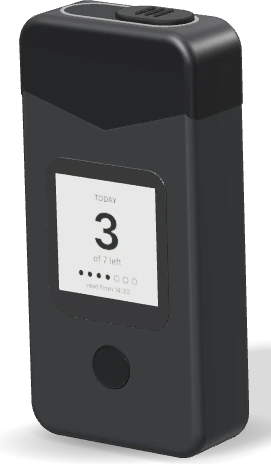
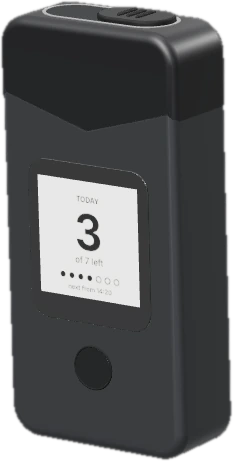
Relinquit: every section fits one screen, static app section with clickable list and autoplay walkthrough, shadow-free colourways, taller product renders
Claude-Session: https://claude.ai/code/session_016HT8M4ZHhrVr9NAe4Ea33j

diff --git a/js/relinquit.js b/js/relinquit.js
@@ -74,8 +74,7 @@
           <div><b class="tl">51.7%</b><span>say they want to quit</span><b class="am">19.9%</b><span>plan to try in the next 3 months</span></div></div>
         <div class="rq-cut"><h3>Does cutting down work?</h3><small>Not smoking 6 months later — 697 smokers, randomised</small>
           <div class="br"><i class="b1"></i><b>22.0%</b><span>stopped outright</span></div><div class="br"><i class="b2"></i><b>15.5%</b><span>cut down first</span></div>
-          <p class="so">${ico("arrow", 22, "#2F7F86")}So every plan ends on a quit date.</p></div>
-        <p class="rq-cr"><i>${ico("clock", 26, "#5FE0D6")}</i><span><b>Cravings last a few minutes.</b>Design for the minutes in between.</span></p></div></div>
+          <p class="so">${ico("arrow", 22, "#2F7F86")}So every plan ends on a quit date.</p></div></div></div>
       <p class="rq-src">Sources: ONS Adult smoking habits in the UK 2025 (2023 point: ONS 2023 bulletin); WHO tobacco fact sheet 2025; ONS average pack price Jan 2025; Lindson-Hawley et al., Annals of Internal Medicine 2016; NHS Better Health.</p>
     </div></div></section>
 
@@ -117,12 +116,12 @@
           <div class="rq-mb"><div class="rq-ms rv"><img src="images/relinquit/states.webp" alt="Left: closed and resting. Right: slid back with one cigarette ready"><p><span>Closed · resting</span><span>Slid back · one ready</span></p></div>
             <div class="rq-me rv"><h3>Always-on e-ink</h3><div class="es">${EINK.map((e, i) => `<div class="${i === 0 ? "on" : ""}" data-i="${i}">${eink(e)}<span>${e[0]}</span></div>`).join("")}</div><p>Shows today’s count even with a flat phone. The ring: teal = ready, amber = resting.</p></div></div></div></div></section>
 
-    <section data-sec="The app" class="rq-pin rq-app" data-pin="app"><div class="rq-stage"><div class="rq-in">
+    <section data-sec="The app" class="rq-app"><div class="rq-in">
       <header class="rq-sh"><small>05 · App</small><h2>Nine screens, one calm companion</h2></header>
-      <div class="rq-ag"><ol class="rq-al">${GROUPS.map((g, gi) => `<li class="g"><small>${g}</small><ul>${SCREENS.map((s, k) => s[3] === gi ? `<li data-k="${k}"><b>${esc(s[1])}</b></li>` : "").join("")}</ul></li>`).join("")}</ol>
+      <div class="rq-ag"><nav class="rq-al" aria-label="App screens">${GROUPS.map((g, gi) => `<div class="g"><small>${g}</small>${SCREENS.map((s, k) => s[3] === gi ? `<button type="button" data-k="${k}">${esc(s[1])}</button>` : "").join("")}</div>`).join("")}</nav>
         <div class="rq-ap">${SCREENS.map((s, k) => `<div class="ps" data-k="${k}">${phone(k, 0.9)}</div>`).join("")}</div>
-        <div class="rq-ac"><small class="ag">Set up</small><h3 class="at">Welcome</h3><p class="ad">Step down or quit now</p><button type="button" class="rq-walk">Walk me through it</button><div class="dots">${SCREENS.map((s, k) => `<i data-k="${k}"></i>`).join("")}</div></div></div>
-    </div></div></section>
+        <div class="rq-ac"><small class="ag">Set up</small><h3 class="at">Welcome</h3><p class="ad">Step down or quit now</p><div class="dots">${SCREENS.map((s, k) => `<button type="button" data-k="${k}" aria-label="${esc(s[1])}"></button>`).join("")}</div><button type="button" class="rq-walk">Walk me through it</button></div></div>
+    </div></section>
 
     <section data-sec="" class="rq-end"><div class="ei"><p class="rq-tag w">${mark("#fff", 30)}<span>relinquit</span></p>
       <h2>Cut down with a plan. <span>Quit for good.</span></h2>
@@ -145,7 +144,7 @@
     // scale the big phone to the stage
     const fitPhones = () => {
       const h = vh();
-      const big = Math.max(0.45, Math.min(1.1, (h - 170 - 170) / 868));
+      const big = Math.max(0.42, Math.min(1.1, (h - 400) / 868));
       $$(".rq-ap .rq-dev").forEach((d) => d.style.setProperty("--s", big.toFixed(3)));
       const e = $(".ph2"); if (e) e.style.setProperty("--s", Math.max(0.4, Math.min(0.7, (h * 0.62) / 868)).toFixed(3));
     };
@@ -186,7 +185,6 @@
         $(".b1", el).style.width = `${(22 * 11 * b).toFixed(1)}px`; $(".b2", el).style.width = `${(15.5 * 11 * b).toFixed(1)}px`;
         $(".rq-cut", el).style.opacity = seg(p, 0.66, 0.76);
         $(".so", el).style.opacity = seg(p, 0.88, 0.95);
-        $(".rq-cr", el).style.opacity = seg(p, 0.92, 1);
       },
       day(el, p) {
         const a = seg(p, 0.05, 0.9), l = $(".dl", el);
@@ -210,33 +208,32 @@
         if (el._k === i) return; el._k = i;
         $$(".rq-wl li", el).forEach((li, k) => li.classList.toggle("on", k === i));
         $$(".stp img", el).forEach((im, k) => im.classList.toggle("on", k === i));
-      },
-      app(el, p) {
-        const n = SCREENS.length, k = Math.min(n - 1, Math.floor(p * n * 0.999));
-        if (el._k === k) return; el._k = k;
-        $$(".ps", el).forEach((s, i) => { s.classList.toggle("on", i === k); s.classList.toggle("past", i < k); });
-        $$(".rq-al li[data-k]", el).forEach((l) => l.classList.toggle("on", +l.dataset.k === k));
-        $$(".dots i", el).forEach((d) => d.classList.toggle("on", +d.dataset.k === k));
-        $(".ag", el).textContent = GROUPS[SCREENS[k][3]]; $(".at", el).textContent = SCREENS[k][1]; $(".ad", el).textContent = SCREENS[k][2];
       }
     };
-    // "Walk me through it": scroll the pinned app scene by itself, one screen at a time
-    const walk = $(".rq-walk"), appEl = $(".rq-app");
-    let walking = 0;
-    const stopWalk = () => { if (walking) { cancelAnimationFrame(walking); walking = 0; walk.classList.remove("go"); walk.textContent = "Walk me through it"; } };
-    if (walk) {
-      walk.addEventListener("click", () => {
-        if (walking) return stopWalk();
-        const top = appEl.getBoundingClientRect().top + scrollY, span = appEl.offsetHeight - vh();
-        let from = scrollY; if (from > top + span - 4 || from < top - vh()) from = top;
-        const t0 = performance.now(), dur = SCREENS.length * 2300 * (1 - (from - top) / span);
-        walk.classList.add("go"); walk.textContent = "Pause";
-        const step = (now) => { const f = cl((now - t0) / dur); window.scrollTo(0, lerp(from, top + span, f)); if (f < 1) walking = requestAnimationFrame(step); else stopWalk(); };
-        walking = requestAnimationFrame(step);
-      });
-      ["wheel", "touchstart", "keydown"].forEach((ev) => { addEventListener(ev, stopWalk, { passive: true }); off.push(() => removeEventListener(ev, stopWalk)); });
-      off.push(stopWalk);
-    }
+    // app screens: click to choose; "Walk me through it" plays them by itself, then moves on to the next section
+    const appEl = $(".rq-app"), walk = $(".rq-walk");
+    let cur = -1, timer = 0;
+    const show = (k) => {
+      if (k === cur) return; cur = k;
+      $$(".ps", appEl).forEach((s, i) => { s.classList.toggle("on", i === k); s.classList.toggle("past", i < k); });
+      $$(".rq-al button", appEl).forEach((b) => b.classList.toggle("on", +b.dataset.k === k));
+      $$(".dots button", appEl).forEach((d) => d.classList.toggle("on", +d.dataset.k === k));
+      $(".ag", appEl).textContent = GROUPS[SCREENS[k][3]]; $(".at", appEl).textContent = SCREENS[k][1]; $(".ad", appEl).textContent = SCREENS[k][2];
+    };
+    const stopWalk = () => { if (timer) { clearInterval(timer); timer = 0; } walk.classList.remove("go"); walk.textContent = "Walk me through it"; };
+    $$(".rq-al button, .dots button", appEl).forEach((b) => b.addEventListener("click", () => { stopWalk(); show(+b.dataset.k); }));
+    walk.addEventListener("click", () => {
+      if (timer) return stopWalk();
+      walk.classList.add("go"); walk.textContent = "Pause";
+      let k = cur >= SCREENS.length - 1 ? 0 : cur + (cur < 0 ? 1 : 0); show(Math.max(0, k));
+      timer = setInterval(() => {
+        if (cur >= SCREENS.length - 1) { stopWalk(); const nx = $(".rq-end"); if (nx) nx.scrollIntoView({ behavior: "smooth", block: "start" }); return; }
+        show(cur + 1);
+      }, 2400);
+    });
+    ["wheel", "touchstart", "keydown"].forEach((ev) => { addEventListener(ev, stopWalk, { passive: true }); off.push(() => removeEventListener(ev, stopWalk)); });
+    off.push(stopWalk);
+    show(0);
     // floating project title + current section
     const fix = $(".rq-fix"), secs = $$("section[data-sec]");
     const label = () => {

diff --git a/css/relinquit.css b/css/relinquit.css
@@ -237,3 +237,92 @@
 .ch button { white-space: nowrap; }
 .rq-ms { display: flex; flex-direction: column; justify-content: center; }
 .rq-exw { width: min(100%, 20rem); }
+
+/* ---------- every section fits one 1920x1080 screen ---------- */
+.rq-stage { align-items: flex-start; }
+.rq-in { height: 100%; box-sizing: border-box; padding-top: calc(var(--nav-h) + 1.6rem); padding-bottom: 2vh; gap: 2.4vh; justify-content: flex-start; }
+.rq-sh small { margin-bottom: .6rem; }
+.rq-sh h2 { font-size: clamp(1.8rem, 2.9vw, 3.1rem); line-height: 1.12; }
+.rq-people, .rq-model { height: 100vh; min-height: 0; box-sizing: border-box; padding: calc(var(--nav-h) + 1.6rem) 0 2.4vh; gap: 2.4vh; justify-content: flex-start; overflow: hidden; }
+.rq-app { height: 100vh; box-sizing: border-box; overflow: hidden; }
+.rq-app .rq-in { height: 100%; }
+/* research */
+.rq-chart svg { max-height: 34vh; }
+.rq-stats { margin-top: .8rem; gap: 2rem; }
+.rq-stats b, .rq-don b { font-size: clamp(1.8rem, 2.6vw, 2.8rem); }
+.rq-pgrid { gap: 2.5rem; }
+.rq-pr { gap: 1.6rem; }
+.rq-don svg { width: min(13vw, 12rem); }
+.rq-cut { padding: 1.4rem 1.8rem; }
+.br { margin-bottom: .8rem; }
+.rq-src { margin-top: auto; }
+/* people */
+.rq-pers { gap: 1.2rem; }
+.rq-pc { min-height: 0; padding: 1.5rem 1.8rem; gap: 1rem; border-radius: 20px; }
+.rq-pc p { font-size: 1.7rem; line-height: 1.2; }
+.rq-pc .who i { width: 2.8rem; }
+.rq-map { grid-template-columns: auto 1fr; gap: 2.5rem; align-items: center; }
+.rq-map svg { max-height: 41vh; width: auto; max-width: 100%; }
+/* how it works */
+.rq-wgrid { gap: 3rem; align-items: stretch; }
+.rq-wc { height: 62vh; }
+.stp img { height: 92%; max-width: 92%; }
+.rq-wl { justify-content: center; }
+.rq-mech { margin-top: auto; }
+/* model */
+.rq-mg { height: calc(100vh - var(--nav-h) - 13.5rem); min-height: 0; align-items: stretch; gap: 1.2rem; }
+.rq-mg > div, .rq-mr > div, .rq-mb > div { padding: 1.3rem 1.5rem; border-radius: 22px; box-sizing: border-box; }
+.rq-mx { display: flex; flex-direction: column; min-height: 0; height: 100%; }
+.rq-mx h3 { margin-bottom: .6rem; }
+.rq-mx .ex { flex: 1; min-height: 0; display: flex; flex-direction: column; gap: .9rem; }
+.rq-exw { flex: 1 1 0; min-height: 0; width: auto; aspect-ratio: 687 / 1089; align-self: center; margin: 0; }
+.rq-exw > img { width: 100%; height: 100%; object-fit: contain; }
+.rq-exw .pt { width: 1.5rem; font-size: .72rem; }
+.lg { grid-template-columns: repeat(4, auto) !important; gap: .4rem 1.2rem !important; font-size: .85rem !important; justify-content: space-between; }
+.lg li b { width: 1.3rem; font-size: .7rem; }
+.rq-mr { display: flex; flex-direction: column; gap: 1.2rem; min-height: 0; height: 100%; }
+.rq-mc { flex: 1.15 1 0; min-height: 0; display: flex; }
+.cs { height: 100%; min-height: 0; gap: .8rem; }
+.cv { flex: 1; min-height: 0; padding-top: 0; align-items: flex-end; width: 100%; gap: 1.6rem; }
+.cv img { height: 100%; width: auto; max-width: 23%; min-width: 0; object-fit: contain; object-position: bottom; transform: scale(.9); transform-origin: bottom center; }
+.cv img.on { transform: scale(1); }
+.rq-mb { flex: 1 1 0; min-height: 0; display: grid; grid-template-columns: 1fr 1fr; gap: 1.2rem; }
+.rq-ms { padding: .6rem !important; display: flex; flex-direction: column; min-height: 0; }
+.rq-ms img { flex: 1; min-height: 0; width: 100%; height: 100%; object-fit: cover; object-position: 50% 45%; border-radius: 16px; }
+.rq-ms p { margin-top: .5rem; padding: 0 .6rem .2rem; font-size: .88rem; }
+.rq-me { display: flex; flex-direction: column; min-height: 0; }
+.rq-me h3 { margin-bottom: .7rem; }
+.es { grid-template-columns: repeat(4, 1fr); gap: .5rem; }
+.es > div { padding: .45rem; font-size: .75rem; border-radius: 12px; }
+.rq-es { padding: .5rem .3rem; margin-bottom: .35rem; border-radius: 8px; }
+.rq-es b { font-size: 1.55rem; } .rq-es b.sm { font-size: 1.05rem; line-height: 1.6; }
+.rq-es span { font-size: .5rem; } .rq-es small { font-size: .55rem; }
+.rq-me p { margin-top: .8rem; font-size: .85rem; line-height: 1.5; }
+/* app */
+.rq-ag { grid-template-columns: 1fr 24rem 1fr; gap: 1rem; align-items: center; flex: 1; height: auto; min-height: 0; padding: 0 var(--pad); }
+.rq-al { display: flex; flex-direction: column; gap: 1.6rem; }
+.rq-al .g { display: flex; flex-direction: column; align-items: flex-start; gap: .15rem; }
+.rq-al .g > small { font-size: .9rem; color: var(--soft); font-weight: 600; margin-bottom: .35rem; }
+.rq-al button { all: unset; cursor: pointer; font-family: "Space Grotesk", sans-serif; font-size: 1.45rem; font-weight: 600; line-height: 1.5; color: #AEACA4; padding-left: 1.3rem; position: relative; transition: color .25s; }
+.rq-al button::before { content: ""; position: absolute; left: 0; top: 50%; width: .5rem; aspect-ratio: 1; margin-top: -.25rem; border-radius: 50%; background: var(--teal); transform: scale(0); transition: transform .25s; }
+.rq-al button:hover { color: var(--soft); }
+.rq-al button.on { color: var(--ink); } .rq-al button.on::before { transform: scale(1); }
+.rq-al button:focus-visible, .dots button:focus-visible { outline: 3px solid var(--aqua); outline-offset: 3px; border-radius: 6px; }
+.rq-ap { height: 100%; width: 100%; }
+.rq-ac { display: flex; flex-direction: column; align-items: flex-start; }
+.rq-ac small { font-size: .9rem; }
+.rq-ac h3 { font-size: 2.6rem; margin: .5rem 0 .6rem; }
+.rq-ac p { min-height: 3.2em; }
+.dots { display: flex; gap: .55rem; margin-top: 1.2rem; }
+.dots i { display: none; }
+.dots button { all: unset; cursor: pointer; width: .6rem; height: .6rem; border-radius: 99px; background: #CFCBC0; transition: width .3s, background .3s; box-shadow: 0 0 0 .35rem transparent; }
+.dots button.on { background: var(--teal); width: 1.6rem; }
+.rq-walk { margin-top: 2rem; }
+/* fixes: walkthrough image stays inside its card; Inside card uses its full height */
+.rq-wc { overflow: hidden; display: block; }
+.stp { position: absolute; inset: 0; display: block; width: auto; height: auto; }
+.stp img { position: absolute; left: 50%; bottom: 4%; height: auto; width: auto; max-height: 92%; max-width: 86%; transform: translate(-50%, 14px); }
+.stp img.on { transform: translate(-50%, 0); }
+.rq-mx .ex { flex-direction: row; align-items: stretch; gap: 1rem; }
+.rq-exw { align-self: stretch; flex: 0 1 auto; height: 100%; width: auto; }
+.rq-mx .lg { grid-template-columns: 1fr !important; align-content: center; gap: 1rem !important; font-size: .95rem !important; flex: 1; justify-content: start; }
